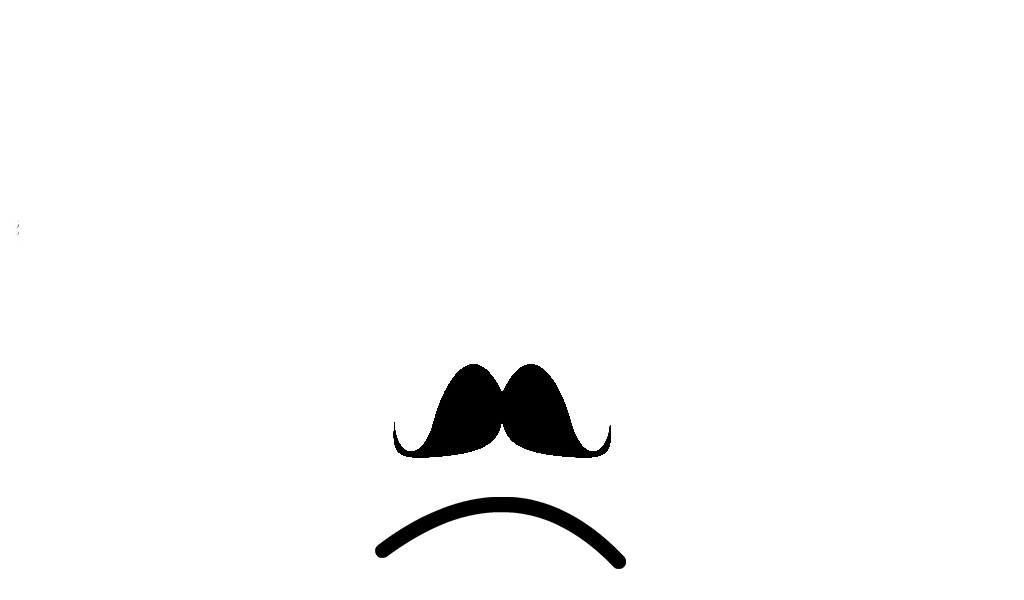
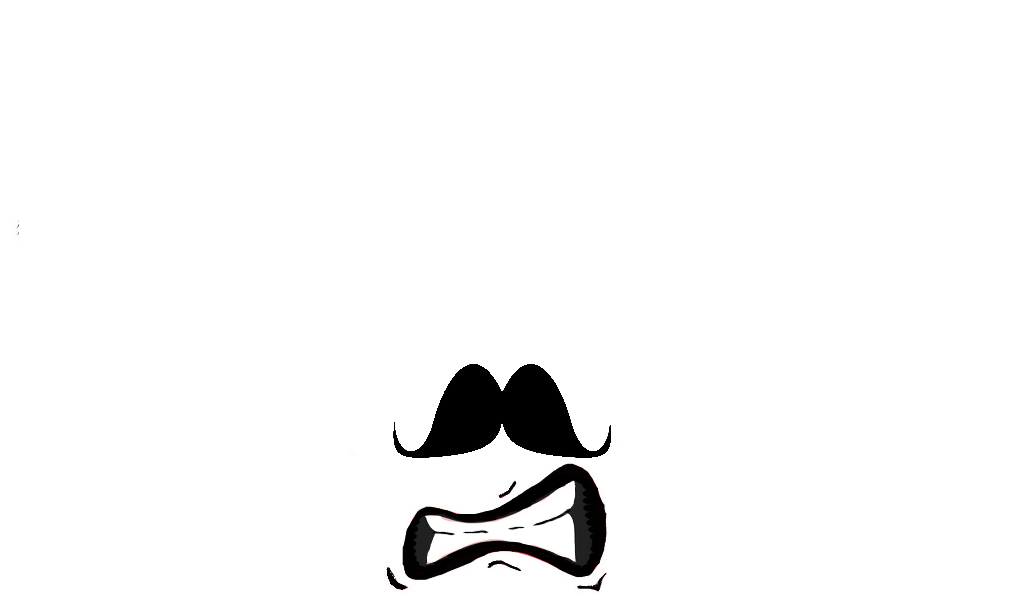
new version with new facial expression

Changed region(s): [[0.3438, 0.75, 0.625, 0.99]]

diff --git a/scripts/screen_listener.py b/scripts/screen_listener.py
@@ -428,7 +428,8 @@ def main():
     print "entered main part..."
 #    wobbler = head_wobbler.Wobbler()
     #face.testAllImages(cv2, publish_image)
-    face.sleep(cv2, publish_image)
+    face.emotion_neutral(cv2, publish_image)
+    #face.sleep(cv2, publish_image)
 #    rospy.Subscriber('/robot/sonar/head_sonar/state', PointCloud, callback_human_follow)
 #    rospy.Subscriber('/robot/limb/left/endpoint_state', EndpointState, callback_left_arm_follow)
 #    rospy.Subscriber('/robot/limb/right/endpoint_state', EndpointState, callback_right_arm_follow)

diff --git a/scripts/Face.py b/scripts/Face.py
@@ -226,7 +226,7 @@ class Face:
         eyeBrowArray = [0, 1]
         self.winkMove(cv2, -330, 0.3, publish)  # Eyelids are not seen.
         self.skin.setSkin(2)
-        mouthIndex = 6  # random.choice(mouthArray)
+        mouthIndex = 5  # random.choice(mouthArray)
         eyebrowIndex = random.choice(eyeBrowArray)
         self.showEmotion(mouthIndex, eyebrowIndex, cv2, publish)
 
